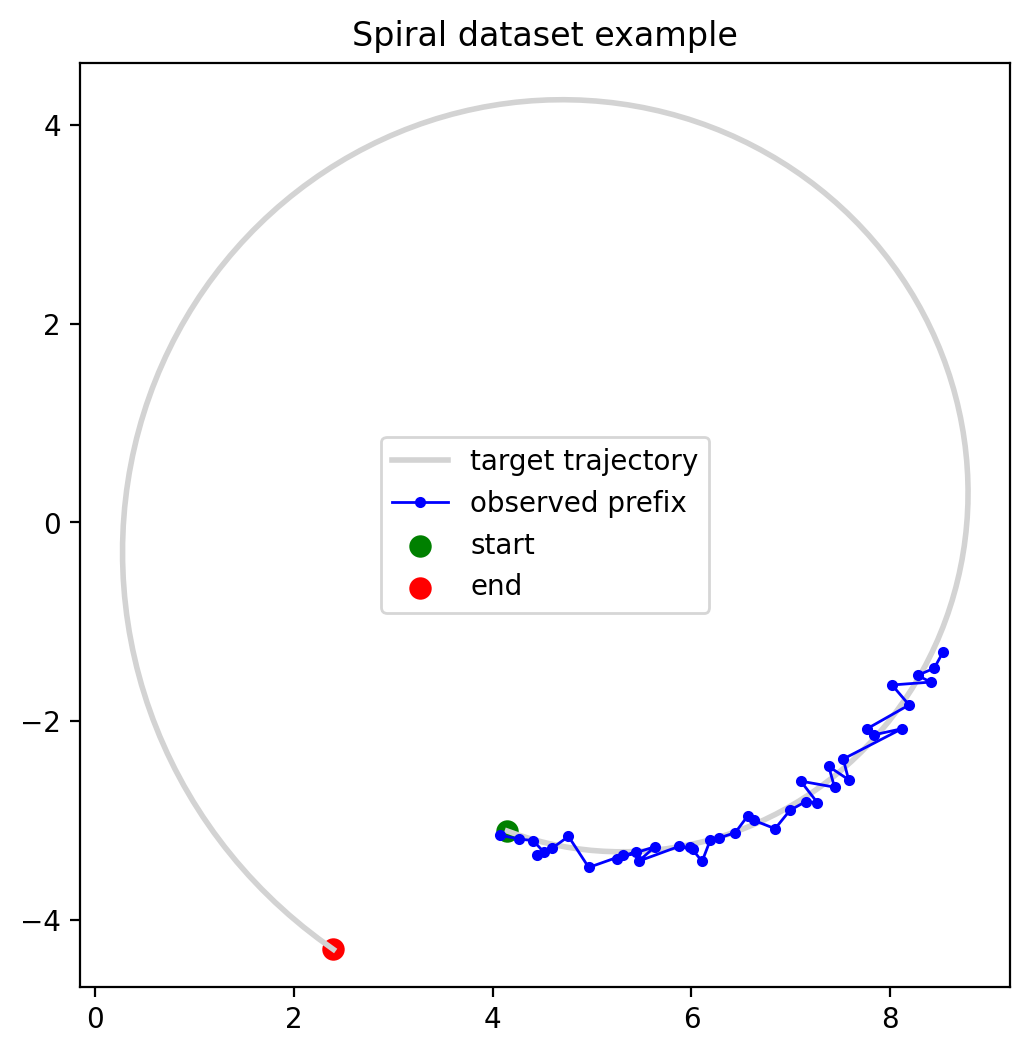
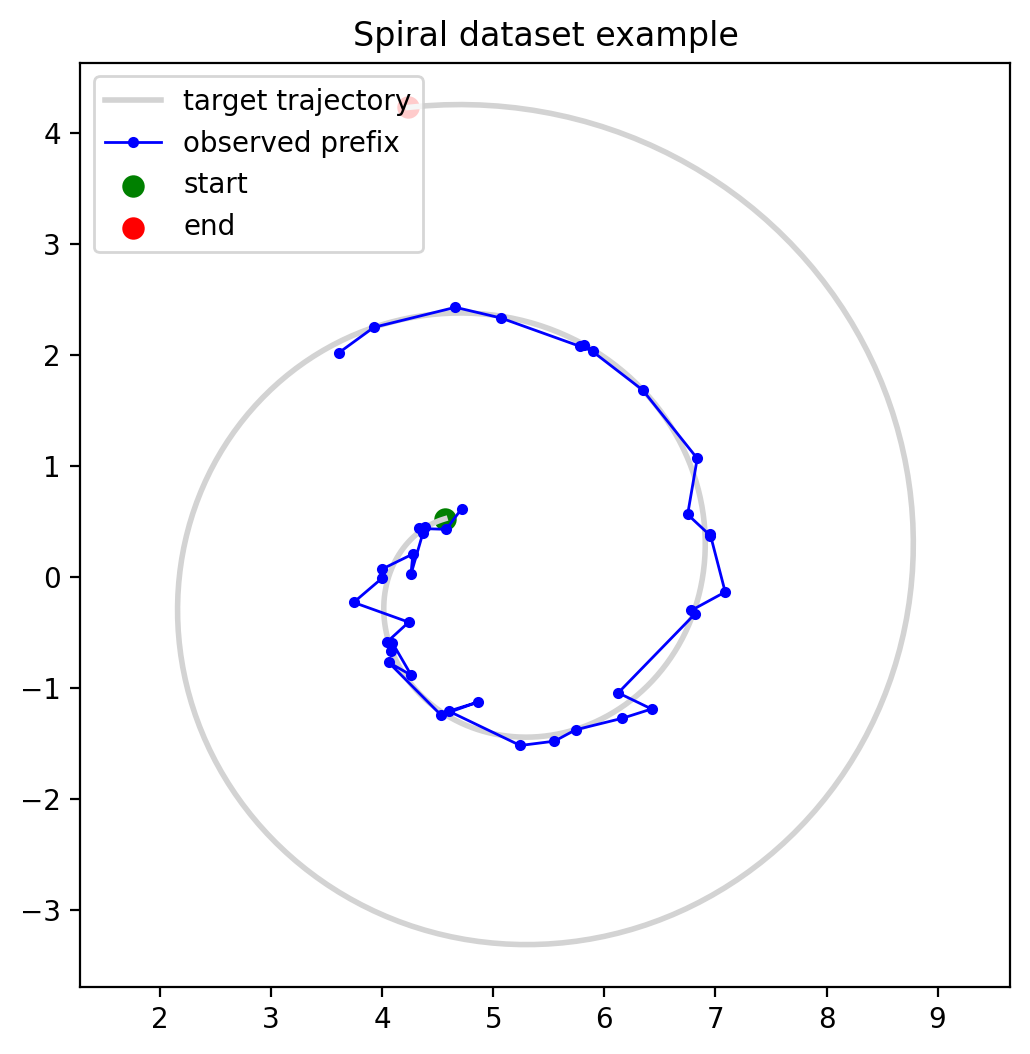
irregular sampling for spirals

diff --git a/lib/generate_spirals.py b/lib/generate_spirals.py
@@ -150,6 +150,8 @@ def generate_spiral_extrap_dataset(
     b=0.3,
     savefig=False,
     device=torch.device("cpu"),
+    irregular=False,
+    irregular_window_time=2 * np.pi,
 ):
     """
     Create a dataset for long-horizon extrapolation.
@@ -188,12 +190,43 @@ def generate_spiral_extrap_dataset(
         plt.legend()
         plt.savefig("./ground_truth_spirals.png", dpi=300)
 
-    full_windows = []
-    observed_windows = []
-
     max_start = ntotal - pred_len
     if max_start <= 0:
         raise ValueError("ntotal must be larger than pred_len.")
+    
+    # Full target is always on a dense local time grid.
+    full_local_ts = global_ts[:pred_len] - global_ts[0]
+
+    if irregular:
+        # Pick candidate dense-grid points whose local time is within the
+        # requested observation window, e.g. [0, 2*pi].
+        candidate_idx = np.where(full_local_ts <= irregular_window_time)[0]
+
+        if len(candidate_idx) < obs_len:
+            raise ValueError(
+                f"irregular_window_time={irregular_window_time} only contains "
+                f"{len(candidate_idx)} available dense points, but obs_len={obs_len}. "
+                "Increase irregular_window_time, increase ntotal, or reduce obs_len."
+            )
+
+        if candidate_idx[-1] >= pred_len - 1:
+            raise ValueError(
+                "irregular_window_time reaches the end of the prediction horizon. "
+                "Reduce irregular_window_time or increase pred_len so there is future left to extrapolate."
+            )
+
+        # Choose obs_len irregularly spaced observations from that early-time region.
+        observed_offsets = np.sort(
+            npr.choice(candidate_idx, size=obs_len, replace=False)
+        )
+    else:
+        # Regular observed prefix.
+        observed_offsets = np.arange(obs_len)
+
+    observed_local_ts = full_local_ts[observed_offsets]
+
+    full_windows = []
+    observed_windows = []
 
     for _ in range(nspiral):
         # Randomly choose which spiral family this sample comes from.
@@ -203,13 +236,13 @@ def generate_spiral_extrap_dataset(
         # Choose a random valid start so we can still take pred_len points.
         t0_idx = npr.randint(0, max_start)
 
-        # Extract the long target window.
+        # Full target trajectory remains dense.
         full_window = source_traj[t0_idx : t0_idx + pred_len].copy()
 
-        # The observed part is just the prefix of that window.
-        observed_window = full_window[:obs_len].copy()
+        # Observed points come from the chosen offsets.
+        observed_window = full_window[observed_offsets].copy()
 
-        # Add observation noise only to the observed part.
+        # Add noise only to observed points.
         observed_window += npr.randn(*observed_window.shape) * noise_std
 
         full_windows.append(full_window)
@@ -218,11 +251,7 @@ def generate_spiral_extrap_dataset(
     full_windows = torch.tensor(np.stack(full_windows, axis=0), dtype=torch.float32, device=device)
     observed_windows = torch.tensor(np.stack(observed_windows, axis=0), dtype=torch.float32, device=device)
 
-    # Use local time relative to the start of the sampled window.
-    local_ts = global_ts[:pred_len] - global_ts[0]
-    observed_ts = local_ts[:obs_len]
-
-    full_time_steps = torch.tensor(local_ts, dtype=torch.float32, device=device)
-    observed_time_steps = torch.tensor(observed_ts, dtype=torch.float32, device=device)
+    full_time_steps = torch.tensor(full_local_ts, dtype=torch.float32, device=device)
+    observed_time_steps = torch.tensor(observed_local_ts, dtype=torch.float32, device=device)
 
     return full_windows, observed_windows, full_time_steps, observed_time_steps

diff --git a/lib/parse_datasets.py b/lib/parse_datasets.py
@@ -201,7 +201,7 @@ def parse_datasets(args, device):
 			full_data, observed_data, full_tp, observed_tp = load_or_create_shared_spiral_dataset(
 				dataset_path=args.shared_spiral_path,
 				nspiral=args.n,
-				ntotal=max(pred_len + 50, 500),
+				ntotal=max(pred_len * 6, 1000),   #For Normal/Initial Tests max(pred_len + 50, 500)
 				obs_len=obs_len,
 				pred_len=pred_len,
 				start=0.0,
@@ -211,12 +211,14 @@ def parse_datasets(args, device):
 				b=0.3,
 				savefig=False,
 				device=device,
+				irregular=True, 
+				irregular_resolution=4
 			)
 		else:
 			# Fall back to the old behavior: generate a fresh dataset for this run.
 			full_data, observed_data, full_tp, observed_tp = generate_spiral_extrap_dataset(
 				nspiral=args.n,
-				ntotal=max(pred_len + 50, 500),
+				ntotal=max(pred_len * 6, 1000),
 				obs_len=obs_len,
 				pred_len=pred_len,
 				start=0.0,
@@ -226,6 +228,8 @@ def parse_datasets(args, device):
 				b=0.3,
 				savefig=False,
 				device=device,
+				irregular=True, 
+				irregular_resolution=4
 			)
 
 		n_samples = full_data.size(0)

diff --git a/spiral_generation_extrap_test.py b/spiral_generation_extrap_test.py
@@ -1,4 +1,5 @@
 import torch
+import numpy as np
 from lib.generate_spirals import generate_spiral_extrap_dataset, plot_spiral_dataset_example
 
 device = torch.device("cpu")
@@ -7,7 +8,7 @@ full_data, obs_data, full_tp, obs_tp = generate_spiral_extrap_dataset(
     nspiral=10,
     ntotal=500,
     obs_len=40,
-    pred_len=160,
+    pred_len=320,
     start=0.0,
     stop=6 * torch.pi,
     noise_std=0.1,
@@ -15,6 +16,8 @@ full_data, obs_data, full_tp, obs_tp = generate_spiral_extrap_dataset(
     b=0.3,
     savefig=True,
     device=device,
+    irregular=True, 
+    irregular_window_time=2 * torch.pi,
 )
 
 plot_spiral_dataset_example(full_data, obs_data, full_tp, obs_tp, idx=3, savepath="spiral_dataset_example.png")
